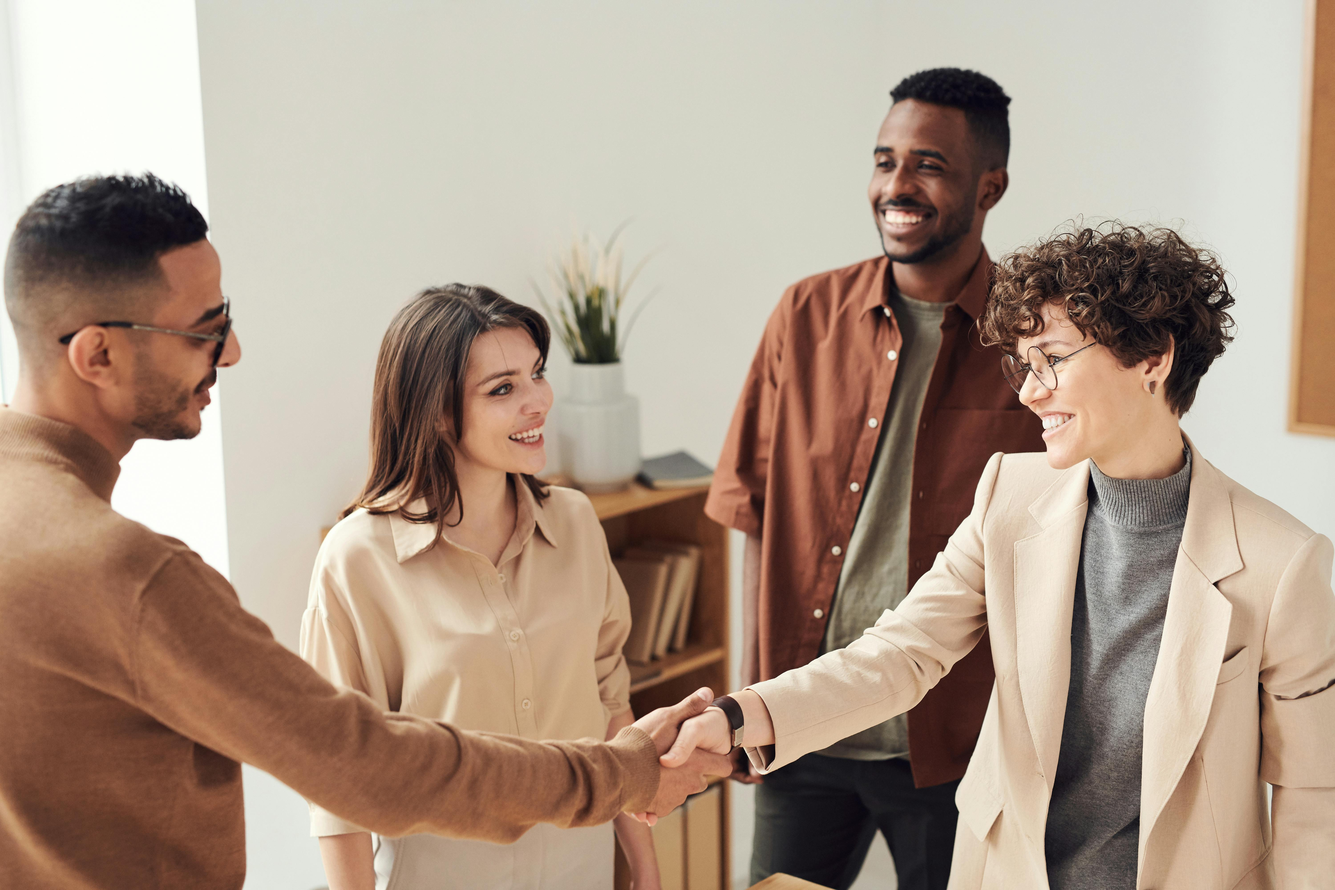
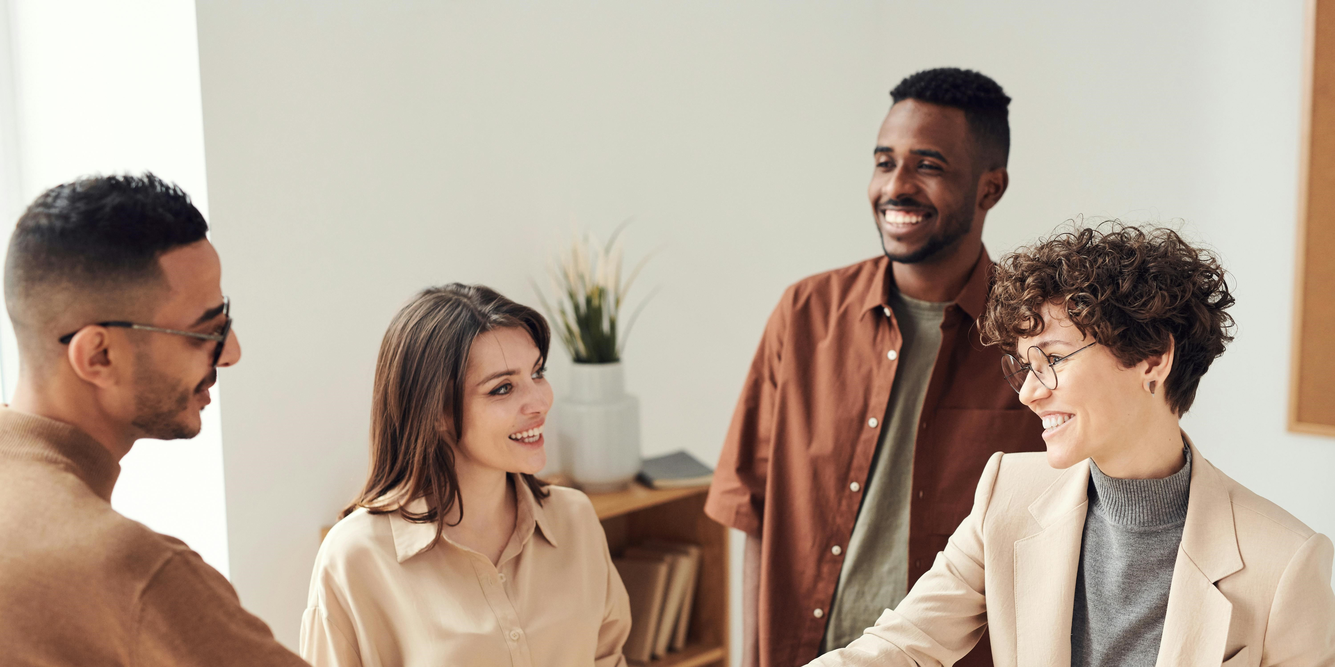
Add overlay titles

diff --git a/deliverable-group 4/index.html b/deliverable-group 4/index.html
@@ -45,18 +45,22 @@
           <div class="carousel-item active">
             <!-- Change the picture and give the picture some relevant text -->
             <img src="./image/career_service.jpg" class="d-block w-100" alt="...">
+            <h2 class="overlay-title">Career Service</h2>
           </div>
           <div class="carousel-item">
             <!-- Change the picture and give the picture some relevant text -->
             <img src="./image/banner2.jpg" class="d-block w-100" alt="...">
+            <h2 class="overlay-title">Insert title here</h2>
           </div>
           <div class="carousel-item">
             <!-- Change the picture and give the picture some relevant text -->
             <img src="./image/banner3.jpg" class="d-block w-100" alt="...">
+            <h2 class="overlay-title">Insert title here</h2>
           </div>
           <div class="carousel-item">
             <!-- Change the picture and give the picture some relevant text -->
             <img src="./image/banner4.jpg" class="d-block w-100" alt="...">
+            <h2 class="overlay-title">Insert title here</h2>
           </div>
         </div>
         <button class="carousel-control-prev" type="button" data-bs-target="#carouselExampleIndicators"

diff --git a/deliverable-group 4/css/style.css b/deliverable-group 4/css/style.css
@@ -17,6 +17,14 @@
   padding: 20px 14px;
 }
 
+.overlay-title {
+  position: absolute;
+  left: 5%;
+  top: 5%;
+  color: darkgray;
+  text-shadow: 1px 1px 1px #000;
+}
+
 #header>div>div.col-md-2.col-md-offset-4>a {
   margin-top: 10px;
 }
@@ -63,6 +71,8 @@
   background-color: #FFC700;
 
 }
+
+/*Page colors*/
 
 #subject_1 {
   background-color: #FFC700;
@@ -111,8 +121,8 @@
 
 #content div a img {
   width: 100%;
-  object-fit: cover;
   height: 50%;
+  object-fit: cover;
   /* clip-path: inset(0); */
 }
 
